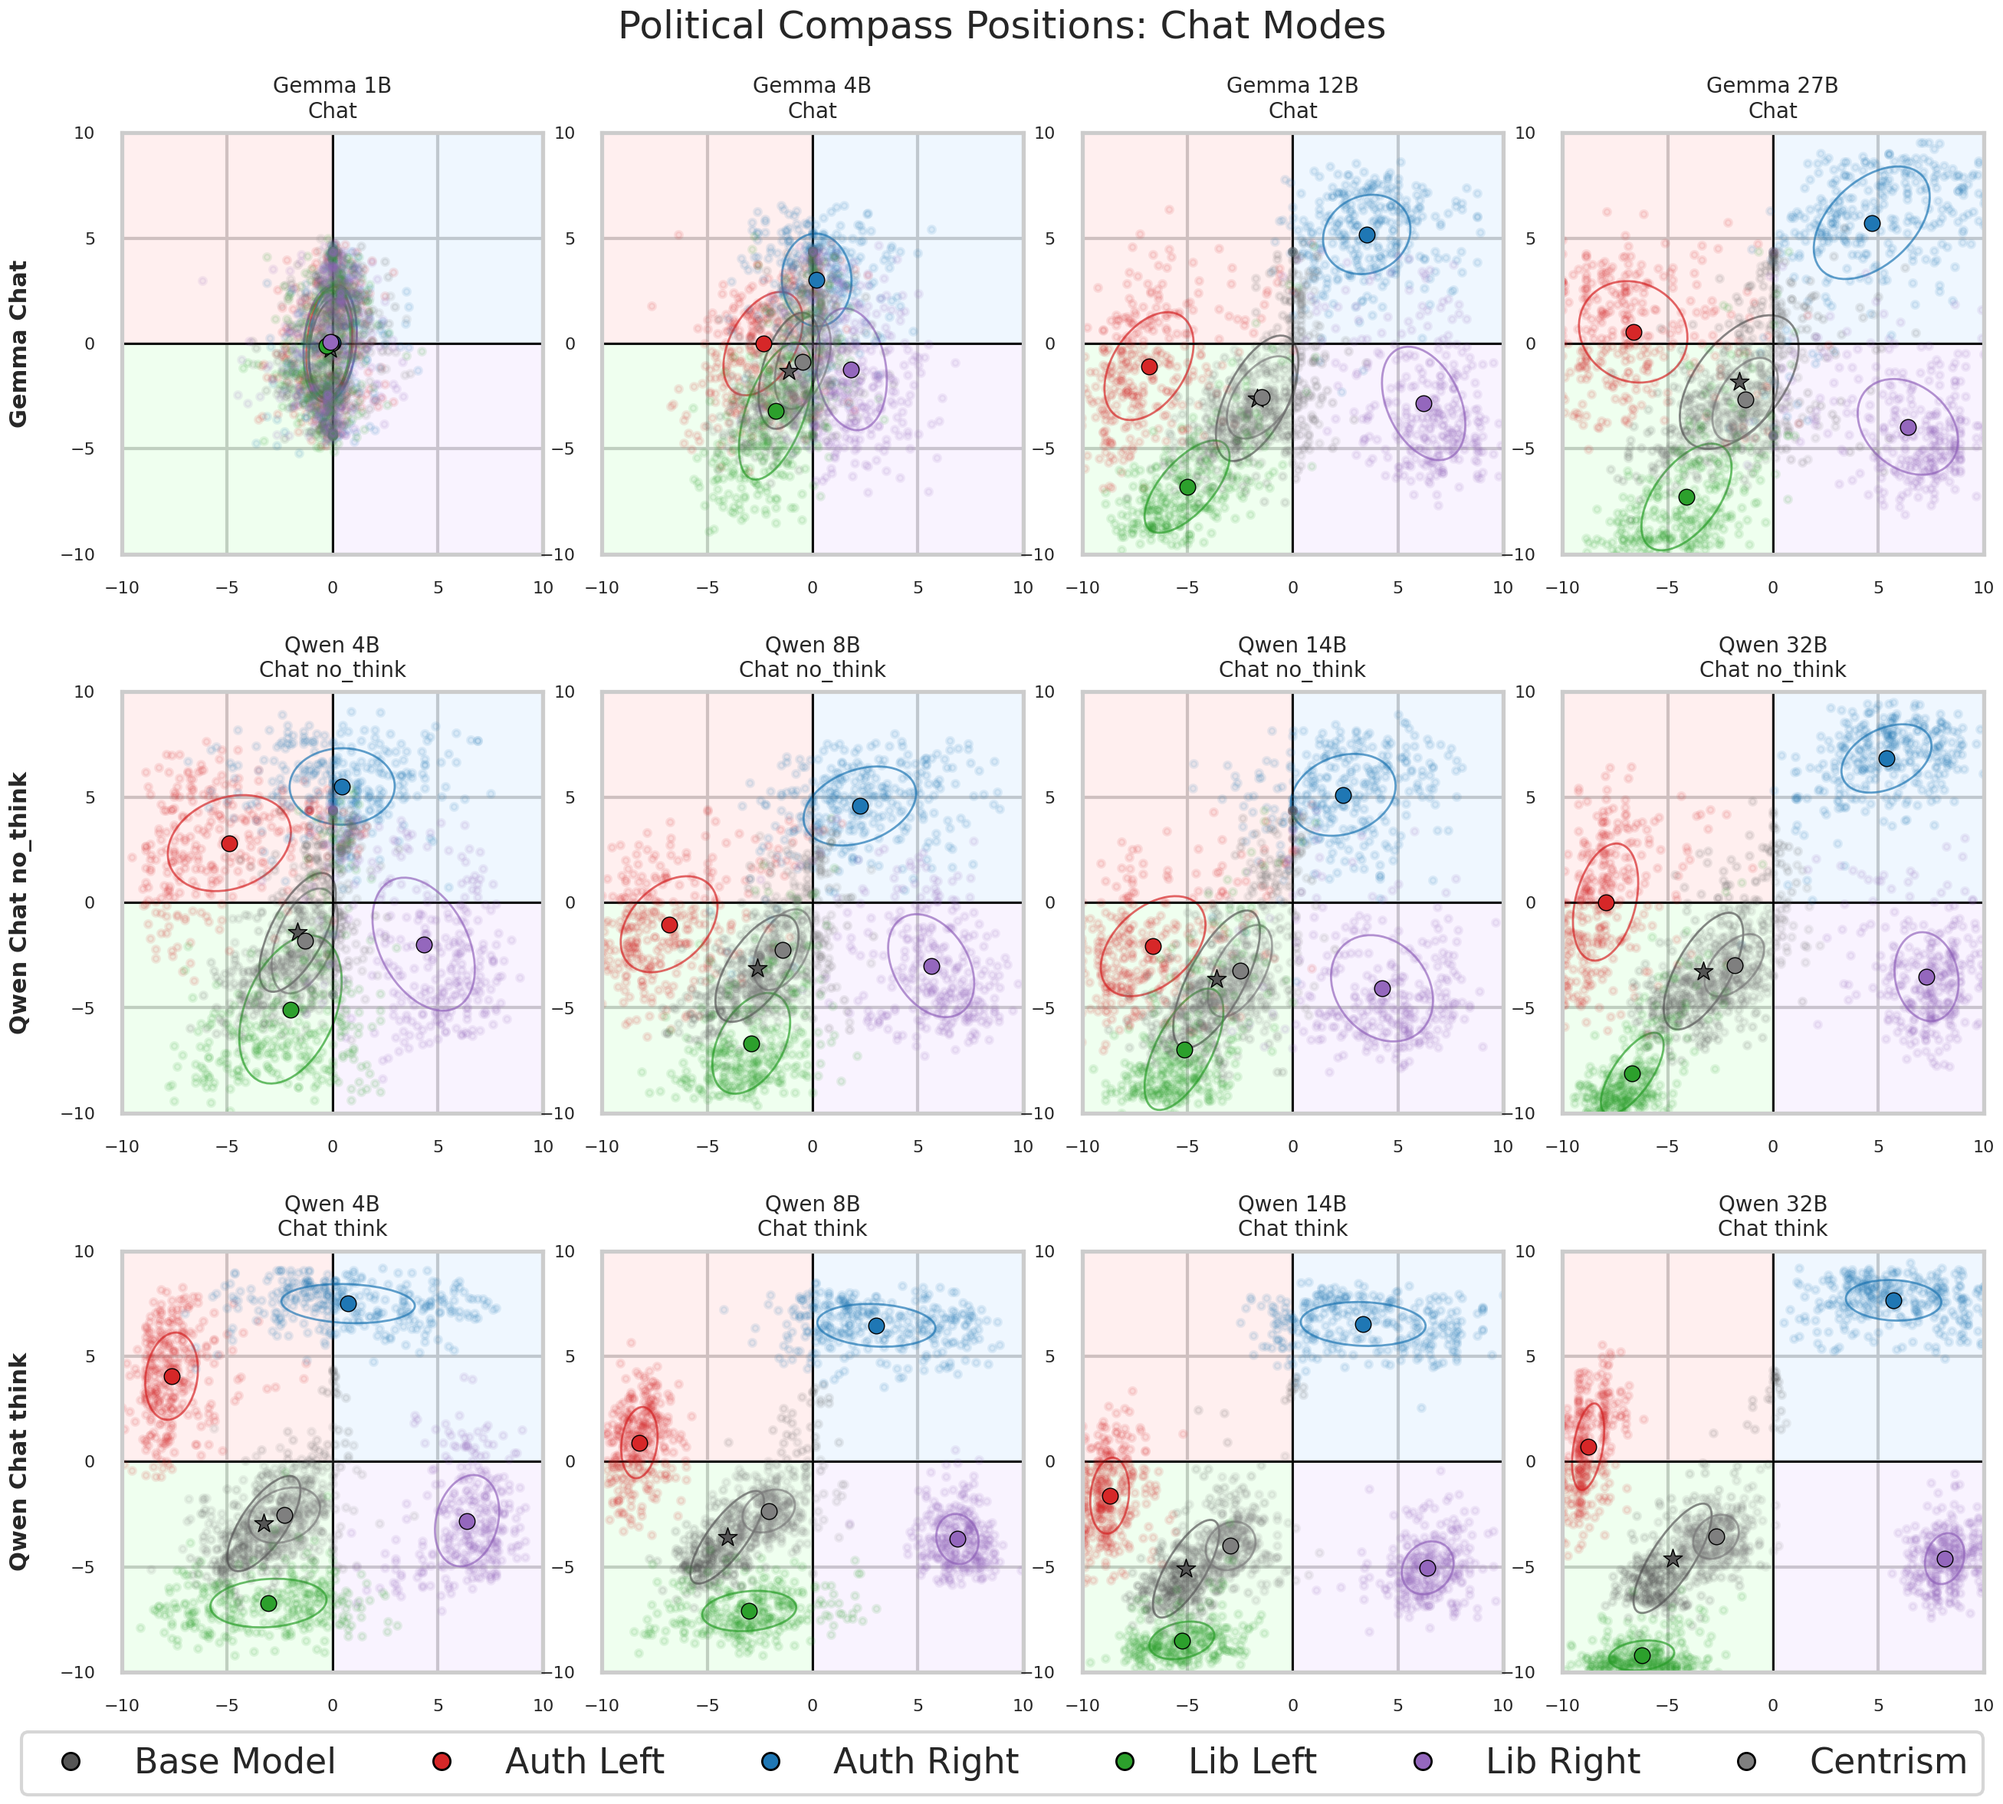
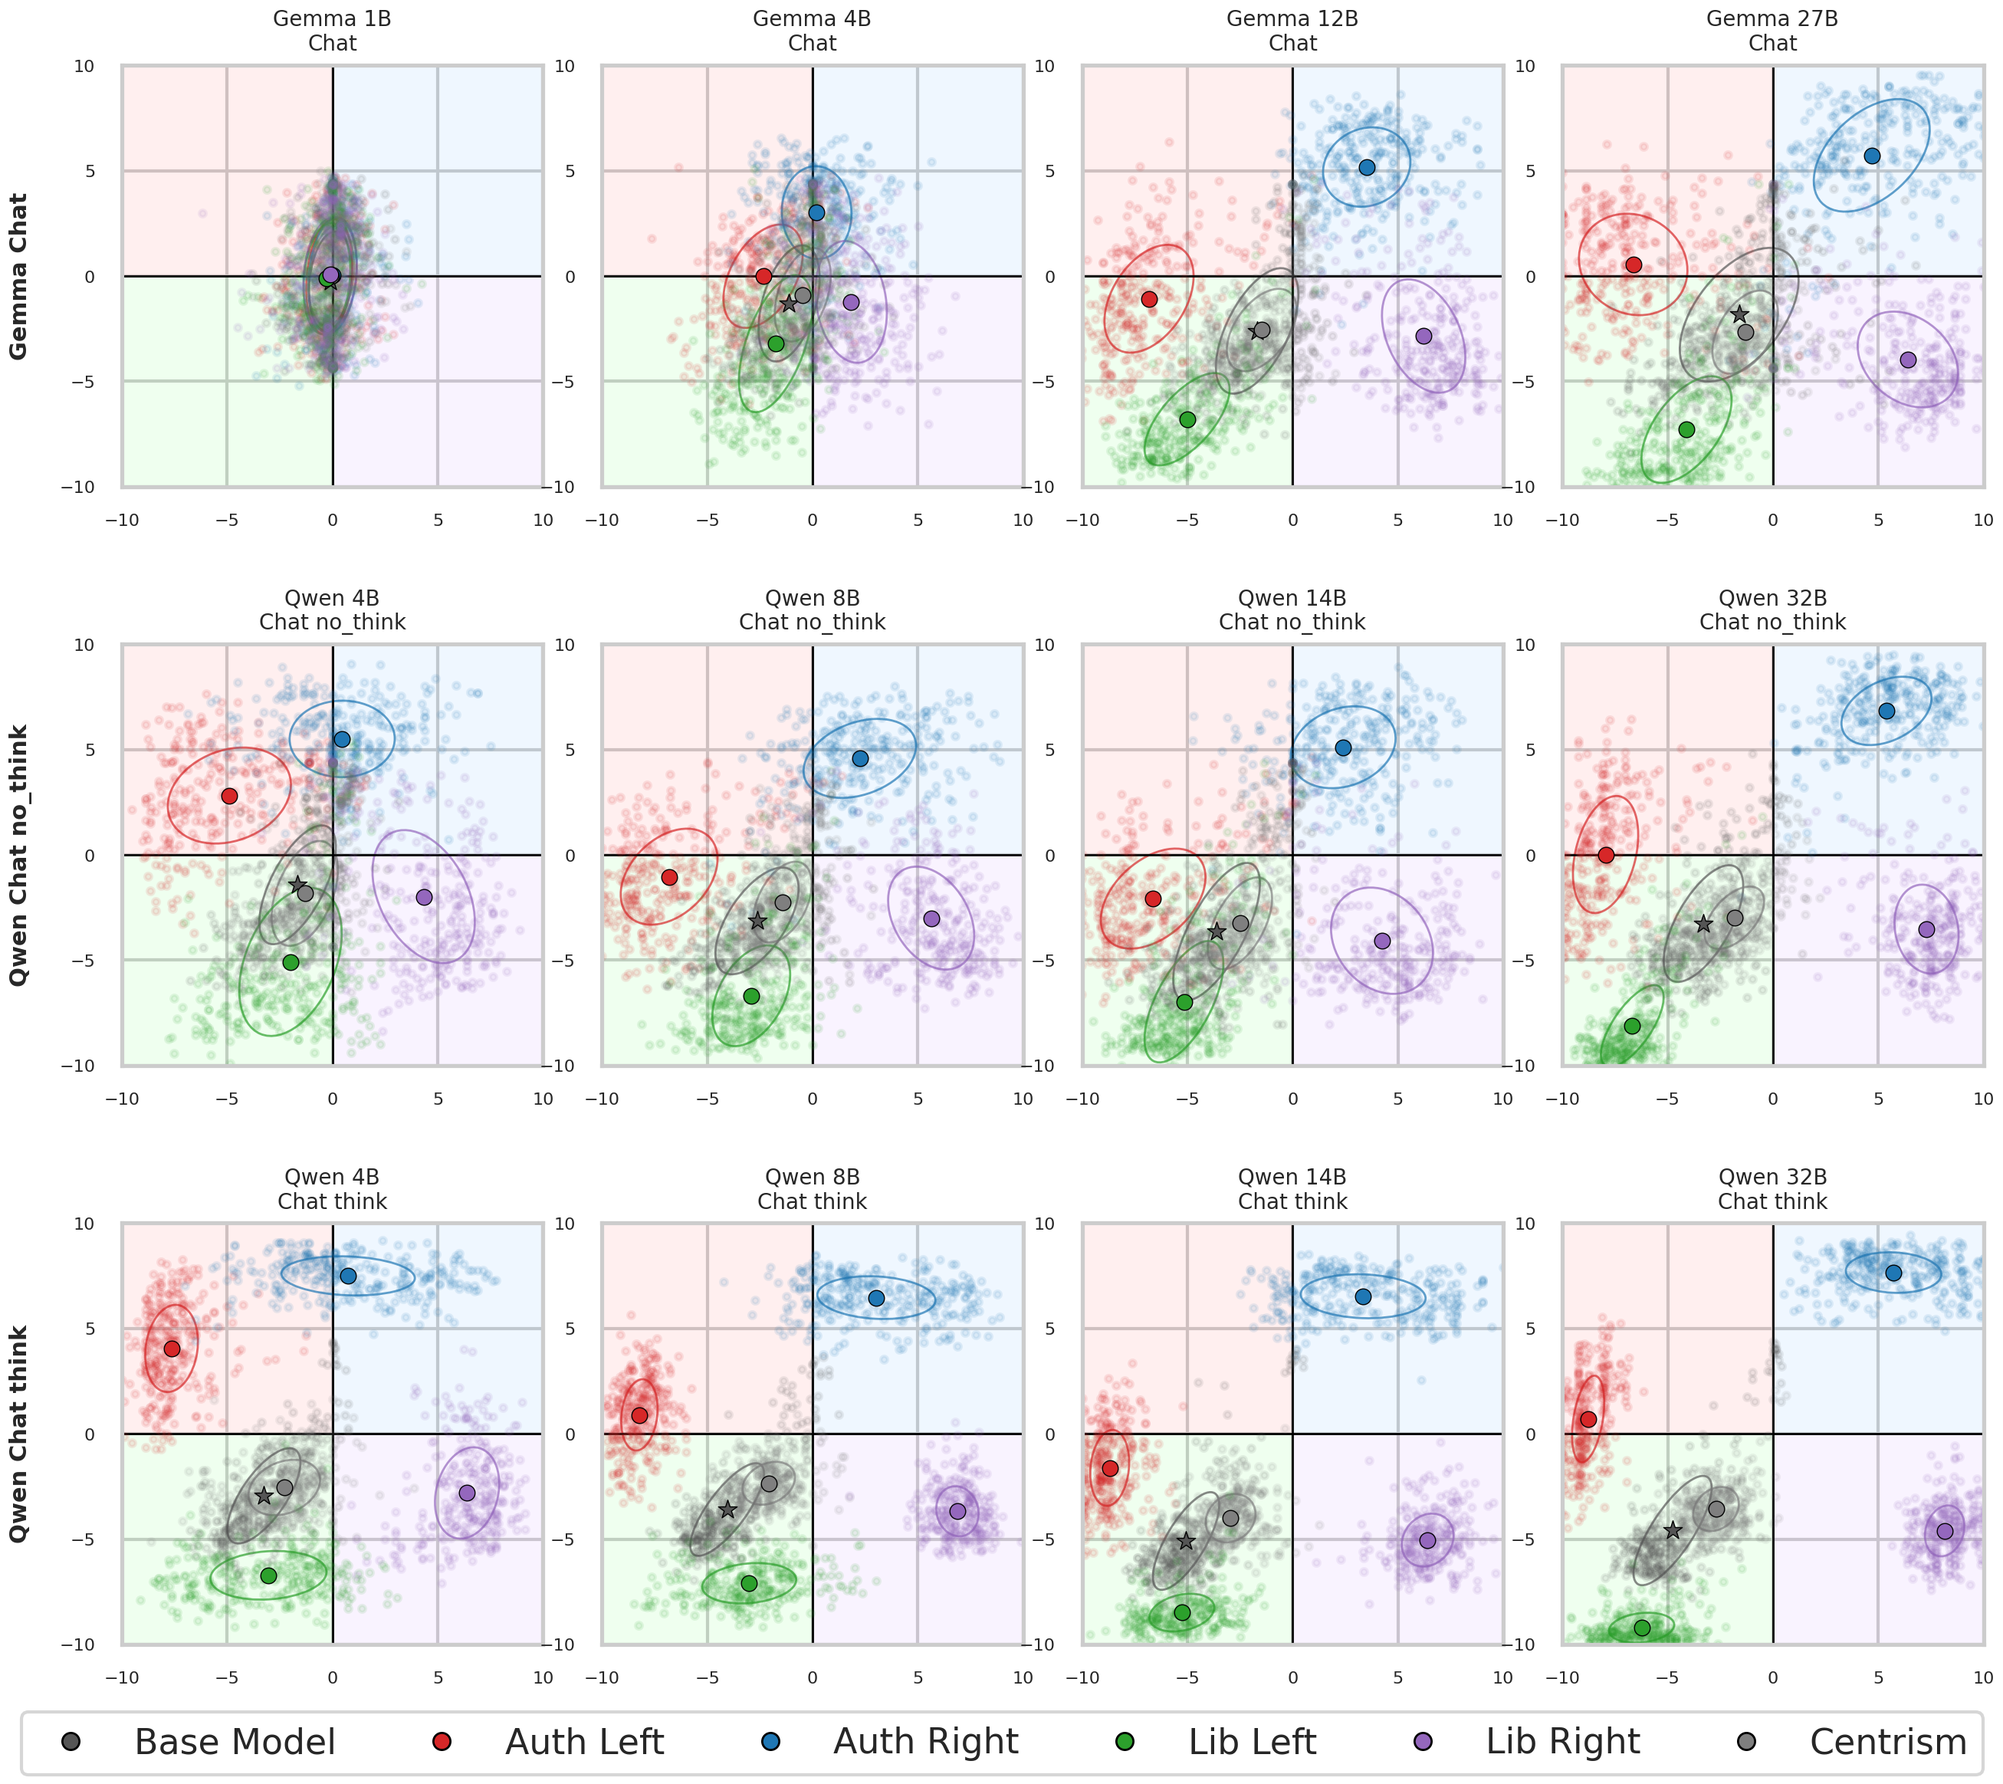
release: rename project and document political compass visuals

diff --git a/dataset/upload_private.py b/dataset/upload_private.py
@@ -12,7 +12,7 @@ from huggingface_hub import HfApi
 def main() -> None:
     parser = argparse.ArgumentParser(description=__doc__)
     parser.add_argument("stage", type=Path)
-    parser.add_argument("--repo-id", default="nishan-chatterjee/polilean-evaluation-traces")
+    parser.add_argument("--repo-id", default="nishan-chatterjee/llm-bias-detection")
     args = parser.parse_args()
     owner, _name = args.repo_id.split("/", 1)
     api = HfApi()

diff --git a/README.md b/README.md
@@ -1,7 +1,9 @@
-# PoliLean
+# LLM Bias Detection
 
 Code and data release for *Navigating the Digital Spectrum: Assessing
-Political Bias, Moral Values, and Toxicity in LLMs*.
+Political Bias, Moral Values, and Toxicity in LLMs*. This repository preserves
+the released PoliLean evaluation code and history under a more descriptive,
+public-facing project name.
 
 The release evaluates how political-persona prompts and prompt-format choices
 affect open-weight language models on three tasks:
@@ -11,8 +13,30 @@ affect open-weight language models on three tasks:
 - identity-targeted hate-speech detection.
 
 Large evaluation traces are hosted in the companion Hugging Face Dataset:
-[nishan-chatterjee/polilean-evaluation-traces](https://huggingface.co/datasets/nishan-chatterjee/polilean-evaluation-traces).
-The companion repository currently requires access permission.
+[nishan-chatterjee/llm-bias-detection](https://huggingface.co/datasets/nishan-chatterjee/llm-bias-detection).
+
+## Political Compass visual overview
+
+The two overview figures below show the scored Political Compass positions
+under the sampled evaluation configurations. A point is one sampled prompt
+configuration and an outlined point is the mean for that assigned condition;
+ellipses show the corresponding one-standard-deviation dispersion. Assigned
+personas are experimental prompt conditions, not intrinsic model identities.
+
+### Multiple-choice protocol
+
+![Political Compass MCQ positions](tasks/political-compass/selected-visuals/political_compass_mcq_only.png)
+
+### Chat protocols
+
+![Political Compass chat positions](tasks/political-compass/selected-visuals/political_compass_chat_modes.png)
+
+The first four chat panels are Gemma checkpoints. The next four are Qwen
+checkpoints with thinking disabled; the final four are matched Qwen runs with
+thinking enabled. See the corresponding generation notebook,
+[`mcq-chat-analysis-selected-visuals.ipynb`](tasks/political-compass/mcq-chat-analysis-selected-visuals.ipynb),
+and the paper's Political Compass methods/results for the experiment design
+and interpretation.
 
 ## Models
 

diff --git a/dataset/DATASET_CARD.md b/dataset/DATASET_CARD.md
@@ -17,7 +17,7 @@ language:
 - tr
 task_categories:
 - text-classification
-pretty_name: PoliLean Evaluation Traces
+pretty_name: LLM Bias Detection Evaluation Traces
 configs:
 - config_name: political_compass_mcq
   data_files: data/political_compass_mcq/*.parquet
@@ -33,7 +33,7 @@ configs:
   data_files: data/hate_speech_aggregate/*.csv
 ---
 
-# PoliLean Evaluation Traces
+# LLM Bias Detection Evaluation Traces
 
 Evaluation data accompanying *Navigating the Digital Spectrum: Assessing
 Political Bias, Moral Values, and Toxicity in LLMs*.
@@ -41,7 +41,7 @@ Political Bias, Moral Values, and Toxicity in LLMs*.
 The Dataset contains the model outputs used for Political Compass multiple
 choice and chat experiments, IBM topic sentiment classification, and
 identity-targeted hate-speech detection. Reproduction and analysis code is in
-the [PoliLean GitHub repository](https://github.com/LukaDebevc/PoliLean_IJS/tree/release).
+the [LLM Bias Detection GitHub repository](https://github.com/nishan-chatterjee/llm-bias-detection).
 
 ## Models and evaluation conditions
 
@@ -129,7 +129,7 @@ With `datasets`:
 from datasets import load_dataset
 
 chat = load_dataset(
-    "nishan-chatterjee/polilean-evaluation-traces",
+    "nishan-chatterjee/llm-bias-detection",
     "political_compass_chat",
 )
 ```
@@ -138,7 +138,7 @@ For large configurations, select a file or use streaming:
 
 ```python
 hate = load_dataset(
-    "nishan-chatterjee/polilean-evaluation-traces",
+    "nishan-chatterjee/llm-bias-detection",
     "hate_speech",
     streaming=True,
 )
